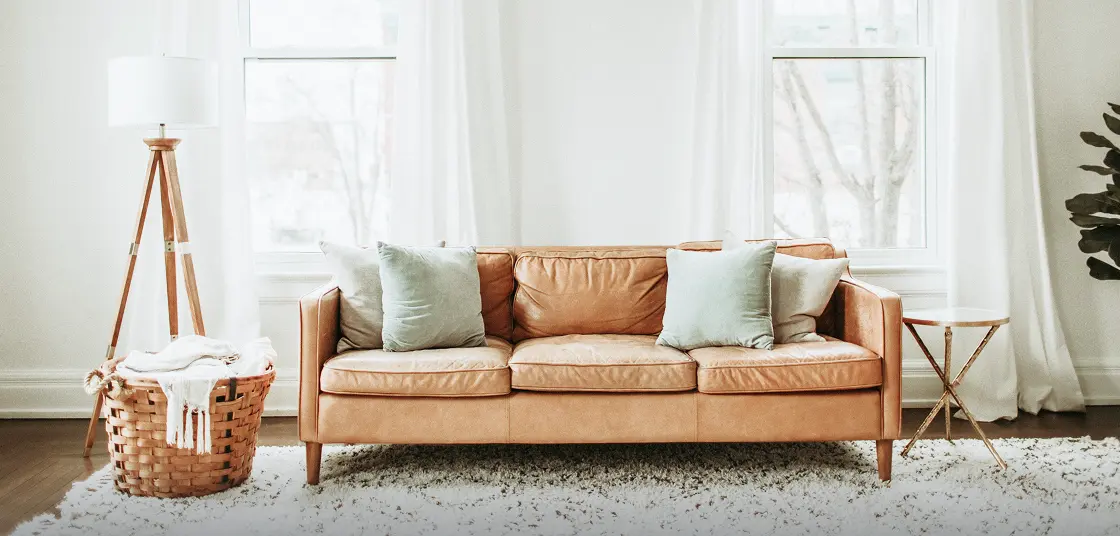
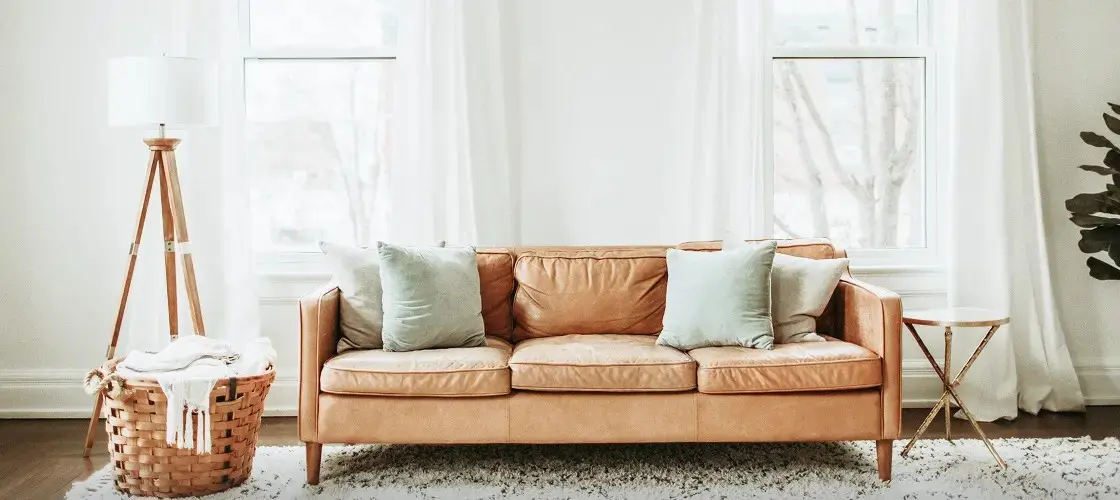
hero done

diff --git a/src/components/Navber.jsx b/src/components/Navber.jsx
@@ -1,4 +1,4 @@
-import React from "react";
+import React, { useRef, useState } from "react";
 import Container from "./layouts/Container";
 import { Link, NavLink } from "react-router";
 import search from "../assets/icons/search.webp";
@@ -6,6 +6,12 @@ import cart from "../assets/icons/shopping-bag.webp";
 import user from "../assets/icons/user-circle.webp";
 import { motion } from "motion/react";
 import { fadeIn, textVariant } from "./../utils/animations";
+import { MdMenu } from "react-icons/md";
+import { RxCross2 } from "react-icons/rx";
+import { LuFacebook, LuSearch } from "react-icons/lu";
+import { BsHeart } from "react-icons/bs";
+import { PiInstagramLogoLight, PiYoutubeLogoLight } from "react-icons/pi";
+import useClickOutside from "../../../Eco-bazar/src/hooks/useClickOutside";
 const Navber = () => {
   const navLinks = [
     {
@@ -26,16 +32,22 @@ const Navber = () => {
     },
   ];
 
+  const [isMenuOpen, setIsMenuOpen] = useState(false)
+  const menuRef = useRef(null)
+  const handleClickMenu = () => {
+    setIsMenuOpen(prev => !prev);
+  }
+  useClickOutside(menuRef, ()=> setIsMenuOpen(false), isMenuOpen)
   return (
     <motion.nav
       variants={fadeIn("down", 0.1)}
       animate="show"
       initial="hidden"
-      className="py-4.5 bg-neutral-1"
+      className="py-4.5 bg-neutral-1 "
     >
       <Container>
         {/* Desktop Navber */}
-        <div className="nav-main flex items-center justify-between">
+        <div className="nav-main hidden lg:flex items-center justify-between">
           {/* Logo */}
           <div className="logo">
             <motion.h2
@@ -105,6 +117,111 @@ const Navber = () => {
             </div>
           </div>
         </div>
+        {/* Mobile navber */}
+        <div className="main px-6 lg:hidden" >
+      <div className="flex items-center justify-between">
+            <div className="logo flex items-center gap-x-2 ">
+            <button className="text-2xl" onClick={handleClickMenu}><MdMenu /></button>
+                    <motion.h2
+              variants={textVariant(0.1)}
+              className="font-poppins font-semibold text-xl text-primary"
+            >
+              3legant.
+            </motion.h2>
+          </div>
+          {/* Cart*/}
+          <div className="flex items-center gap-x-1 cursor-pointer">
+            <img src={cart} alt="icon" loading="lazy" fetchPriority="high" />
+            <span className="px-1  rounded-full bg-neutral-7 text-neutral-1 font-inter font-medium text-sm">2</span>
+          </div>
+      </div>
+
+      {/* side bar */}
+ 
+           {/* overlay */}
+          {isMenuOpen && (
+            <div className="fixed top-0 inset-0 bg-neutral-6/70 z-999999!"></div>
+          )}
+        </div>
+             <div ref={menuRef} className={`absolute top-0 z-1999999! p-6 max-w-87.5 w-full h-screen border-r border-neutral-3 bg-white transition-all duration-300 ${isMenuOpen ? 'left-0' : '-left-full'}`}>
+ <div className="flex flex-col justify-between h-full">
+
+       <div className="top">
+          <div className="logo flex items-center justify-between pb-4">
+                 
+                    <motion.h2
+              variants={textVariant(0.1)}
+              className="font-poppins font-semibold text-xl text-primary"
+            >
+              3legant.
+            </motion.h2>
+                <button className="text-2xl" onClick={handleClickMenu}><RxCross2 /></button>
+        </div>
+        <div className="inputs flex flex-col items-center relative gap-y-2 pb-4">
+              <LuSearch className="text-2xl absolute top-2  left-2" />
+              <input
+                type="text"
+                className="border border-neutral-4! py-2 pl-10 rounded-md! outline-0 min-w-full  font-inter text-body-sm text-neutral-4 focus-within:border-neutral-4 "
+                placeholder="Search"
+              />
+            </div>
+            {/* Nav links */}
+  
+            <div className="navLinks flex flex-col gap-y-4">
+            {
+                navLinks.map((nav, index)=> (
+                   <motion.div  key={index} variants={textVariant(0.2)} className={
+                    "font-inter font-medium text-sm hover:text-neutral-7! transition-colors duration-200 py-2.5 border-b border-neutral-3 w-full"
+                  }>
+                <NavLink
+                  to={nav.href}
+                 
+                  style={({ isActive }) => ({
+                    color: isActive ? "#141718" : "#6C7275",
+                  })}
+          
+                >
+                  {nav.navlink}
+                </NavLink>
+              </motion.div>   
+                ))
+              }
+            </div>
+       </div>
+       <div className="bottom">
+             {/* cart, wishlist */}
+            <div className="flex flex-col gap-y-4 mb-5">
+              <div className="cart w-full flex items-center justify-between pb-3 border-b border-neutral-3 text-body-md font-inter font-semibold capitalize text-neutral-4">
+                cart
+                   <div className="flex items-center gap-x-1 cursor-pointer">
+            <img src={cart} alt="icon" loading="lazy" fetchPriority="high" />
+            <span className="px-1  rounded-full bg-neutral-7 text-neutral-1 font-inter font-medium text-sm">2</span>
+          </div>
+              </div>
+              <div className="cart w-full flex items-center justify-between pb-3 border-b border-neutral-3 text-body-md font-inter font-semibold capitalize text-neutral-4">
+                Wishlist
+                   <div className="flex items-center gap-x-1 cursor-pointer text-2xl text-black">
+            <BsHeart/>
+            <span className="px-1  rounded-full bg-neutral-7 text-neutral-1 font-inter font-medium text-sm">2</span>
+          </div>
+              </div>
+          
+            </div>
+                 <button className="py-2.5 px-6 font-inter font-medium text-white text-body-lg bg-primary rounded-md cursor-pointer w-full ">
+                Sign in
+              </button>
+                     {/* socal media icon */}
+            <div className="flex items-center gap-x-6 text-[#141718] text-2xl mt-5">
+              <PiInstagramLogoLight />
+              <a href="https://www.facebook.com/profile.php?id=61580061792886">
+                <LuFacebook />
+              </a>
+              <PiYoutubeLogoLight />
+            </div>
+       </div>
+ </div>
+           
+      </div>
       </Container>
     </motion.nav>
   );

diff --git a/src/components/Hero.jsx b/src/components/Hero.jsx
@@ -11,45 +11,70 @@ import { IoArrowBackOutline, IoArrowForwardOutline } from "react-icons/io5";
 const Hero = () => {
   return (
     <section>
- <Container>
-       <div className="relative w-full">
-        <Swiper
-          modules={[Navigation, Pagination]}
-          navigation={{
-            prevEl: '.custom-prev',
-            nextEl: '.custom-next',
-          }}
-          pagination={{ clickable: true, el: '.custom-pagination' }}
-          loop={true}
-          className="size-full"
-        >
-          <SwiperSlide>
-            <img src={heroOne} className="w-full h-full " alt="slide 1" />
-          </SwiperSlide>
-          <SwiperSlide>
-            <img src={heroTwo} className="w-full min-h-137.75 object-cover" alt="slide 1" />
-          </SwiperSlide>
-          <SwiperSlide>
-            <img src={heroThree} className="w-full min-h-137.75 object-cover" alt="slide 1" />
-          </SwiperSlide>
-        </Swiper>
+      <Container>
+        <div className="relative w-full px-6 md:px-0">
+          <Swiper
+            modules={[Navigation, Pagination, Autoplay]}
+            navigation={{
+              prevEl: ".custom-prev",
+              nextEl: ".custom-next",
+            }}
+            pagination={{ clickable: true, el: ".custom-pagination" }}
+            loop={true}
+            autoplay={{ delay: 3000 }}
+            className="size-full"
+          >
+            <SwiperSlide>
+              <img
+                src={heroOne}
+                className="w-full min-h-76 md:min-h-full "
+                alt="slide 1"
+              />
+            </SwiperSlide>
+            <SwiperSlide>
+              <img
+                src={heroTwo}
+                className="w-full min-h-76 md:min-h-full object-cover"
+                alt="slide 2"
+              />
+            </SwiperSlide>
+            <SwiperSlide>
+              <img
+                src={heroThree}
+                className="w-full min-h-76 md:min-h-full  object-cover"
+                alt="slide 3"
+              />
+            </SwiperSlide>
+          </Swiper>
 
-        {/* Custom Prev Button */}
-        <button className="custom-prev absolute left-3 top-1/2 -translate-y-1/2 z-10 w-10 h-10 rounded-full bg-white shadow flex items-center justify-center hover:bg-gray-100 transition cursor-pointer text-2xl">
-          <IoArrowBackOutline  />
-        </button>
+          {/* Custom Prev Button */}
+          <button className="custom-prev absolute left-3 top-1/2 -translate-y-1/2 z-10 w-10 h-10 rounded-full bg-white shadow hidden md:flex items-center justify-center hover:bg-gray-100 transition cursor-pointer text-2xl ">
+            <IoArrowBackOutline />
+          </button>
 
-        {/* Custom Next Button */}
-        <button className="custom-next absolute right-3 top-1/2 -translate-y-1/2 z-10 w-10 h-10 rounded-full bg-white shadow flex items-center justify-center hover:bg-gray-100 transition cursor-pointer text-2xl">
-          <IoArrowForwardOutline />
-        </button>
+          {/* Custom Next Button */}
+          <button className="custom-next absolute right-3 top-1/2 -translate-y-1/2 z-10 w-10 h-10 rounded-full bg-white shadow  items-center justify-center hover:bg-gray-100 transition cursor-pointer text-2xl hidden md:flex">
+            <IoArrowForwardOutline />
+          </button>
 
-        {/* Custom Pagination Dots */}
-        <div className="custom-pagination absolute bottom-4 left-1/2 -translate-x-1/2 z-10 flex gap-2" />
-      </div>
- </Container>
+          {/* Custom Pagination Dots */}
+          <div className="custom-pagination absolute bottom-4 left-1/2 -translate-x-1/2 z-10 flex gap-2" />
+        </div>
+
+        {/* Text */}
+        <div className="py-10 px-4 md:px-0">
+          <div className="main grid grid-cols-1 md:grid-cols-2 gap-y-4 items-center">
+            <div className="right">
+              <h1 className="font-poppins font-semibold text-[40px] md:text-[72px] leading-[150%]">Simply Unique<span className="text-neutral-4">/</span> Simply Better.</h1>
+            </div>
+            <div className="left">
+              <p className="font-inter font-normal text-base text-neutral-4"><span className="font-semibold text-neutral-5">3legant</span> is a gift & decorations store based in HCMC, Vietnam. Est since 2019. </p>
+            </div>
+          </div>
+        </div>
+      </Container>
     </section>
-  )
-}
+  );
+};
 
-export default Hero
+export default Hero;

diff --git a/src/components/TopBar.jsx b/src/components/TopBar.jsx
@@ -1,28 +1,54 @@
-import React from "react";
+import React, { useState } from "react";
 import Container from "./layouts/Container";
 import ticket from "../assets/icons/ticket-percent.webp";
 import { Link } from "react-router";
 import { IoArrowForward, IoClose } from "react-icons/io5";
-import { motion } from "motion/react"
+import { motion } from "motion/react";
 import { fadeIn, textVariant } from "../utils/animations";
+
 const TopBar = () => {
+  const [topbar, setTopbar] = useState(true);
+  const handleClick = () => {
+    setTopbar(false);
+  };
   return (
     <>
-      <motion.header variants={fadeIn('down', 0.1)} animate='show' initial='hidden' className="py-2.5 bg-neutral-2 flex justify-end items-center px-6">
-        <Container>
-          <div className="main  flex items-center justify-center gap-x-3 w-fu">
-            <img src={ticket} alt="icon" fetchPriority="high" loading="lazy"/>
-            <motion.h2 variants={textVariant(0.1)} className="font-inter font-semibold text-sm text-neutral-5">
-              30% off storewide — Limited time!
-            </motion.h2>
-            <Link className="flex items-center gap-x-1 text-blue font-inter font-medium text-sm h-full border-b border-blue">
-            Shop Now
-            <IoArrowForward />
-            </Link>
+      {topbar && (
+        <motion.header
+          variants={fadeIn("down", 0.1)}
+          animate="show"
+          initial="hidden"  
+          className="py-2.5 bg-neutral-2 flex justify-end items-center px-6"
+
+        >
+          <Container>
+            <div className="main  flex items-center justify-center gap-x-3 w-full">
+              <img
+                src={ticket}
+                alt="icon"
+                fetchPriority="high"
+                loading="lazy"
+              />
+              <motion.h2
+                variants={textVariant(0.1)}
+                className="font-inter font-semibold text-xs md:text-md text-neutral-5"
+              >
+                30% off storewide — Limited time!
+              </motion.h2>
+              <Link className=" hidden md:flex items-center gap-x-1 text-blue font-inter font-medium text-xs md:text-md h-full border-b border-blue">
+                Shop Now
+                <IoArrowForward />
+              </Link>
+            </div>
+          </Container>
+          <div
+            className="cross text-2xl text-neutral-5 cursor-pointer"
+            onClick={handleClick}
+          >
+            <IoClose />
           </div>
-        </Container>
-        <div className="cross text-2xl text-neutral-5 cursor-pointer"><IoClose /></div>
-      </motion.header>
+        </motion.header>
+      )}
     </>
   );
 };

diff --git a/src/index.css b/src/index.css
@@ -19,6 +19,9 @@
 html {
   user-select: none;
 }
+.swiper {
+  z-index: 0 !important;
+}
 
   .custom-pagination {
     display: flex;